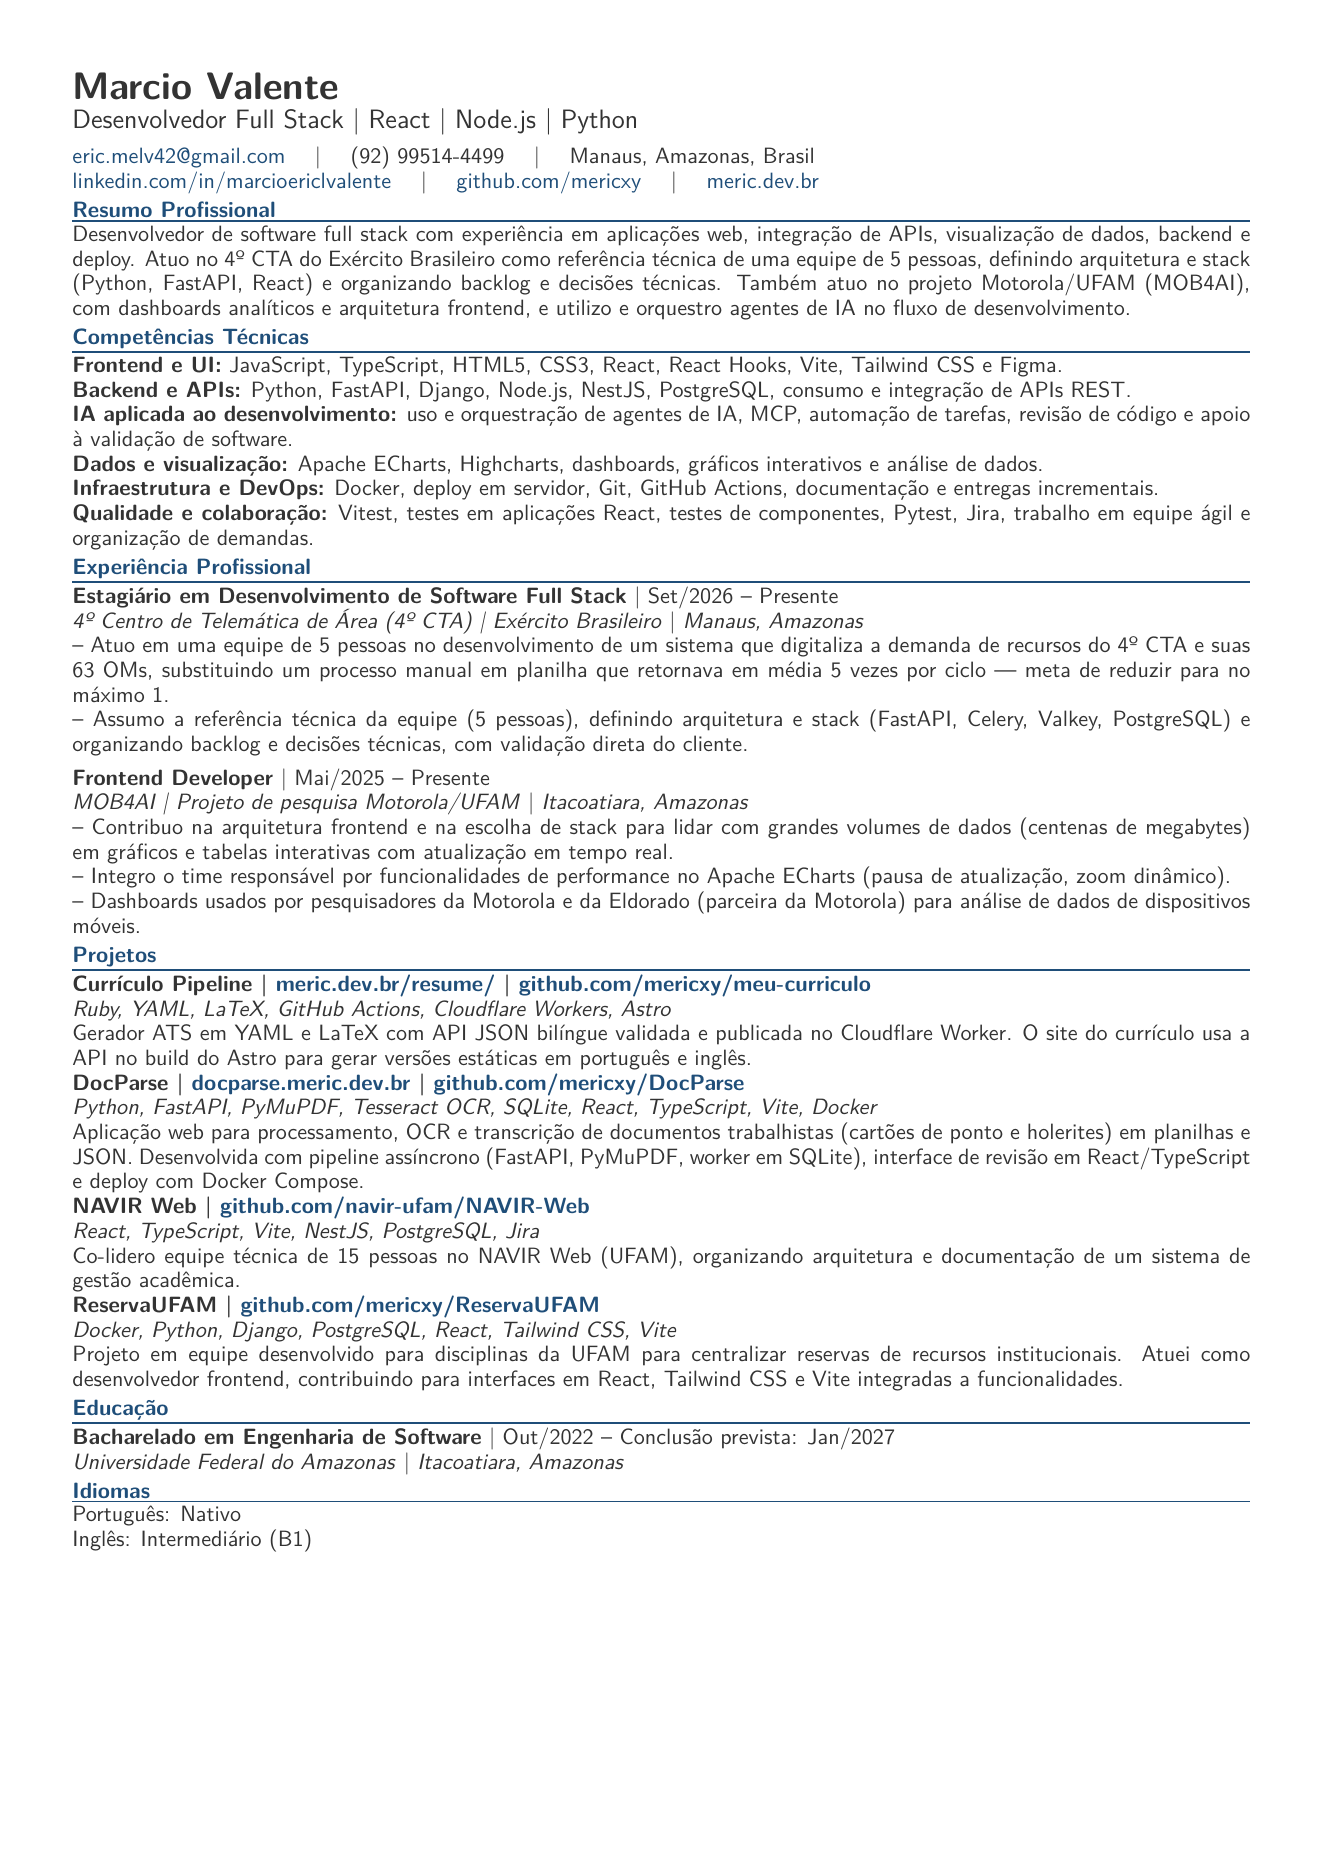
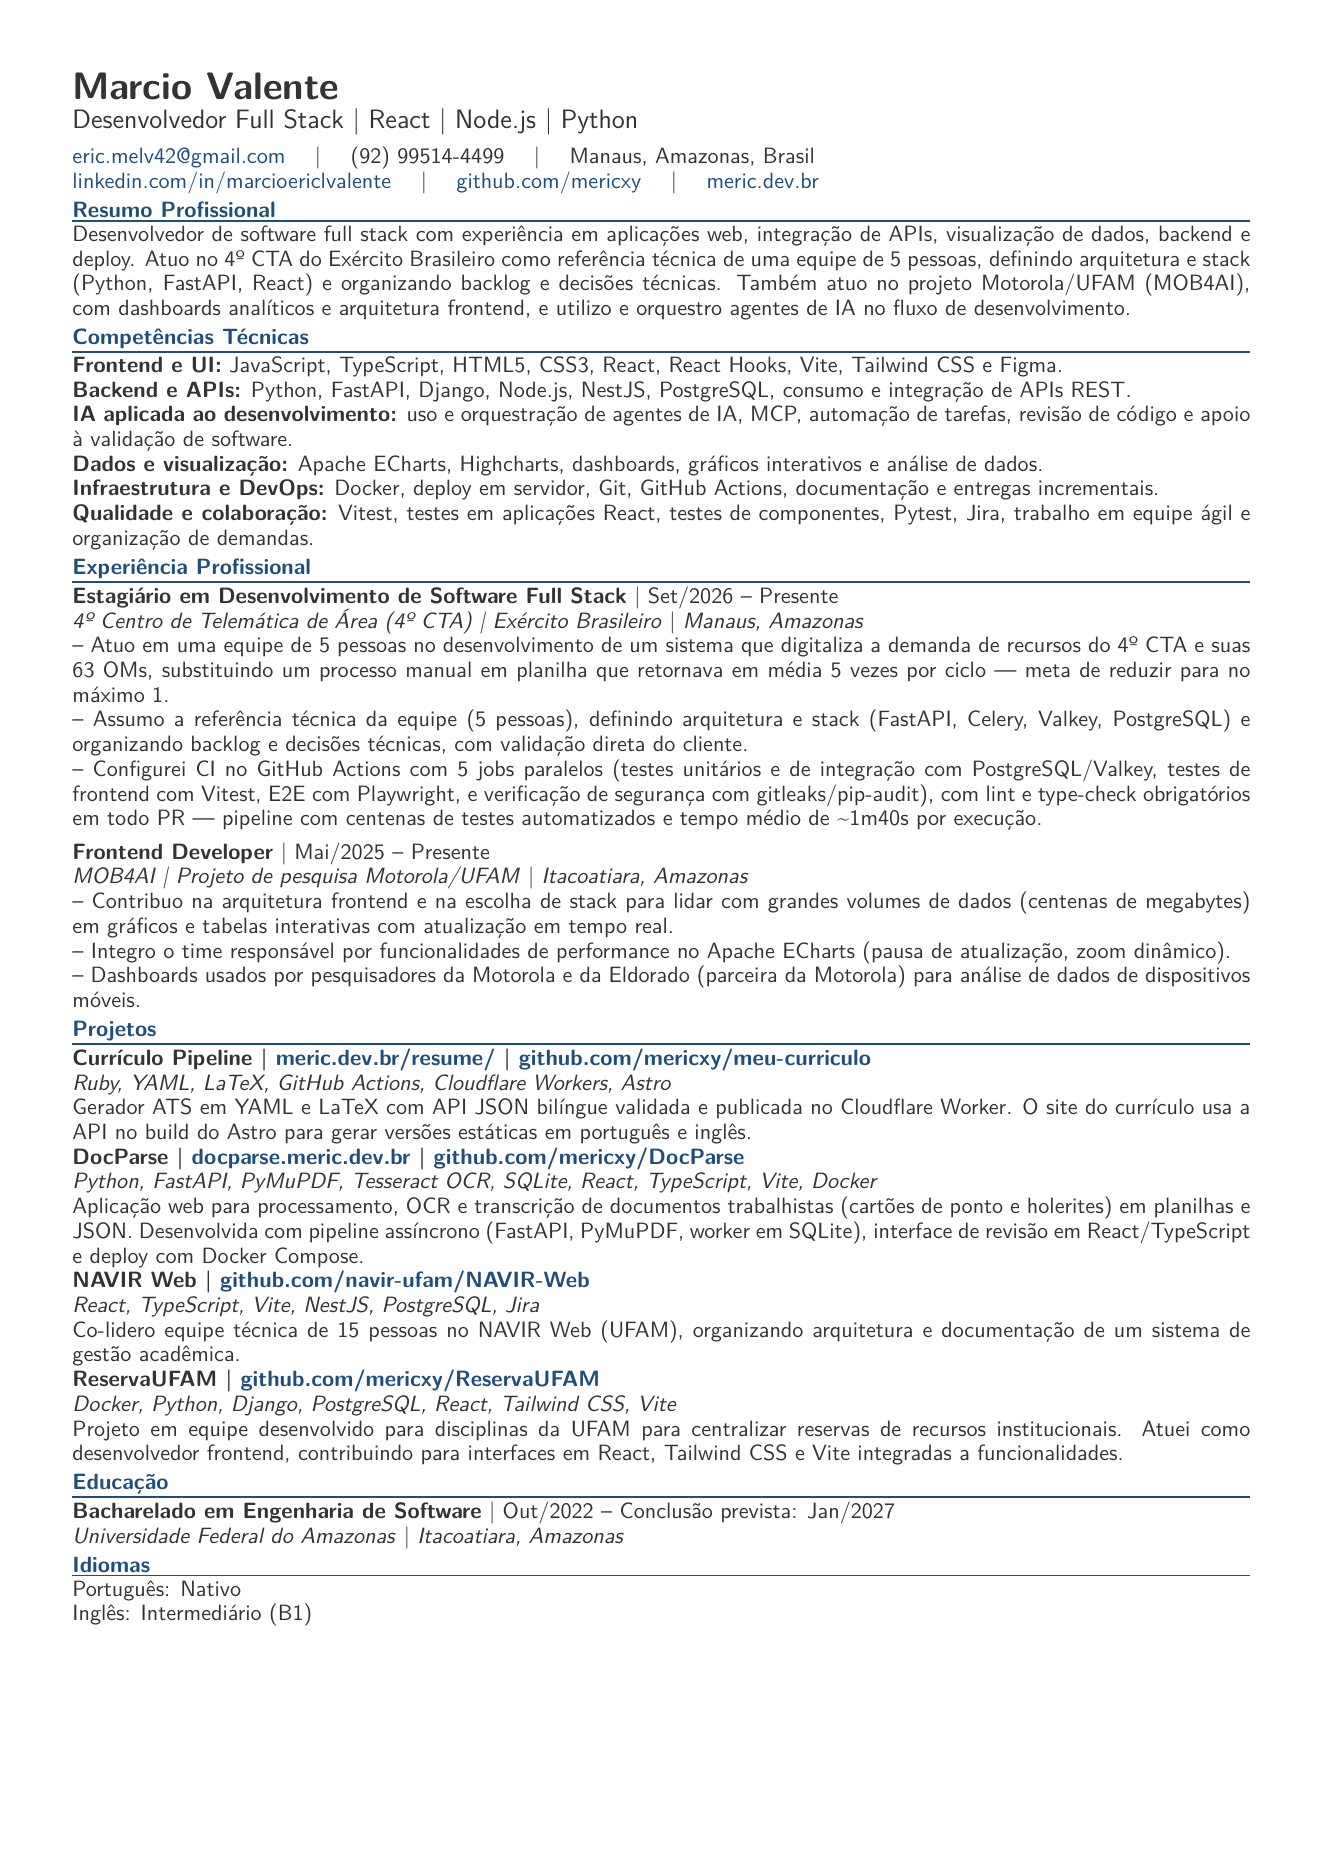
Add CI pipeline bullet to CTA experience

Changed region(s): [[0.031, 0.403, 0.9607, 0.868], [0.8677, 0.713, 0.8987, 0.775]]

diff --git a/curriculo.tex b/curriculo.tex
@@ -18,6 +18,7 @@
 \role{Estagiário em Desenvolvimento de Software Full Stack}{Set/2026 -- Presente}{4º Centro de Telemática de Área (4º CTA) | Exército Brasileiro}{Manaus, Amazonas}
 \achievement{Atuo em uma equipe de 5 pessoas no desenvolvimento de um sistema que digitaliza a demanda de recursos do 4º CTA e suas 63 OMs, substituindo um processo manual em planilha que retornava em média 5 vezes por ciclo — meta de reduzir para no máximo 1.}
 \achievement{Assumo a referência técnica da equipe (5 pessoas), definindo arquitetura e stack (FastAPI, Celery, Valkey, PostgreSQL) e organizando backlog e decisões técnicas, com validação direta do cliente.}
+\achievement{Configurei CI no GitHub Actions com 5 jobs paralelos (testes unitários e de integração com PostgreSQL/Valkey, testes de frontend com Vitest, E2E com Playwright, e verificação de segurança com gitleaks/pip-audit), com lint e type-check obrigatórios em todo PR — pipeline com centenas de testes automatizados e tempo médio de \textasciitilde{}1m40s por execução.}
 \vspace{4pt}
 \role{Frontend Developer}{Mai/2025 -- Presente}{MOB4AI | Projeto de pesquisa Motorola/UFAM}{Itacoatiara, Amazonas}
 \achievement{Contribuo na arquitetura frontend e na escolha de stack para lidar com grandes volumes de dados (centenas de megabytes) em gráficos e tabelas interativas com atualização em tempo real.}
